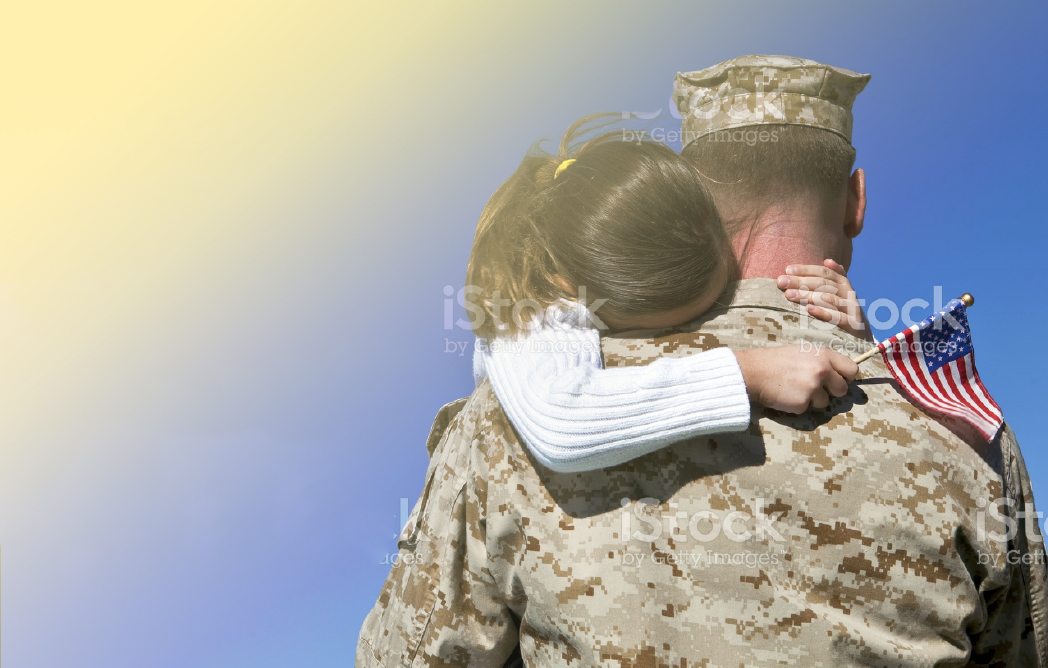
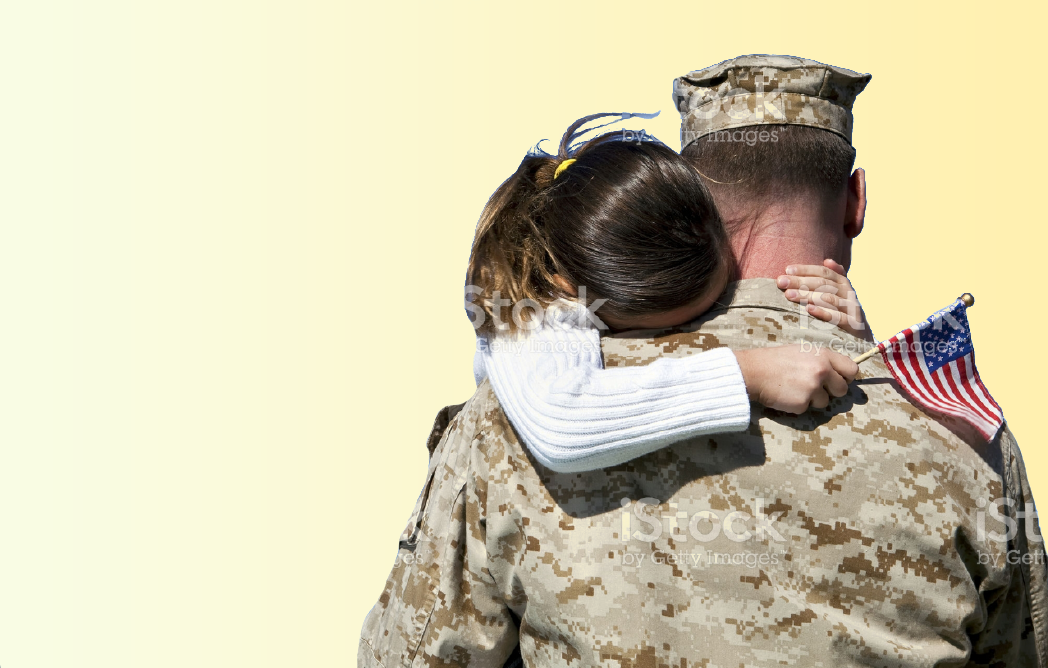
Updates to survey

diff --git a/CHAIvetsurvey/index.html b/CHAIvetsurvey/index.html
@@ -80,12 +80,12 @@
         <div class="container">
             <div class="row">
                 <div class="col-sm-6 text-center hidden-xs">
-                    <i class="fa fa-users text-primary" aria-hidden="true" style="font-size: 150px; margin-top: 50px;"></i>
+                    <i class="fa fa-users" aria-hidden="true" style="font-size: 150px; margin-top: 50px;"></i>
                     <!--<img class="img-responsive" src="img/vetsurvey_about.png" alt="">-->
                 </div>
 
                 <div class="col-sm-6">
-                    <h2 class="section-heading text-primary"> About</h2>
+                    <h2 class="section-heading"> About</h2>
                     <p class="lead">Lorem ipsum dolor sit amet, consectetur adipiscing elit. Sed sed mattis magna, ac pulvinar turpis. Quisque cursus rutrum justo, convallis interdum mi volutpat sodales. Maecenas nec nisi risus. In rutrum posuere odio, vitae luctus libero dictum sed. Donec suscipit, mauris ac congue ultricies, magna augue suscipit felis, vel varius purus nibh non lectus. Fusce pretium suscipit sodales. Suspendisse potenti. Nullam luctus purus at massa posuere, quis gravida magna hendrerit. Pellentesque porttitor feugiat nisi non consequat.</p>
                 </div>
                 
@@ -109,7 +109,7 @@
 
                 </div>-->
                 <div class="col-sm-6">
-                    <h2 class="section-heading text-primary">FAQ</h2>
+                    <h2 class="section-heading">FAQ</h2>
                     <p class="lead"> Maecenas nec nisi risus. In rutrum posuere odio, vitae luctus libero dictum sed. Donec suscipit, mauris ac congue ultricies, magna augue suscipit felis, vel varius purus nibh non lectus. Fusce pretium suscipit sodales. Suspendisse potenti. Nullam luctus purus at massa posuere, quis gravida magna hendrerit. Pellentesque porttitor feugiat nisi non consequat</p>
                     <a class="btn btn-primary" href="#" role="button">FAQ</a> &nbsp;
                     <a class="btn btn-primary" href="#" role="button">Consent Forms</a>
@@ -118,8 +118,8 @@
 
                 <div class="col-sm-6 text-center hidden-xs">
 
-                    <i class="fa fa-question text-primary" aria-hidden="true" style="font-size: 60px; margin-top: 50px;"></i>
-                    <i class="fa fa-question text-primary" aria-hidden="true" style="font-size: 180px; margin-top: 50px;"></i>
+                    <i class="fa fa-question" aria-hidden="true" style="font-size: 60px; margin-top: 50px;"></i>
+                    <i class="fa fa-question" aria-hidden="true" style="font-size: 180px; margin-top: 50px;"></i>
                 </div>
                 
             </div>
@@ -136,11 +136,11 @@
 
             <div class="row">
                 <div class="col-sm-6 text-center hidden-xs">
-                    <i class="fa fa-envelope text-primary" aria-hidden="true" style="font-size: 150px; margin-top: 50px;"></i>
+                    <i class="fa fa-envelope" aria-hidden="true" style="font-size: 150px; margin-top: 50px;"></i>
                     <!--<img class="img-responsive" src="img/vetsurvey_contact.png" alt="">-->
                 </div>
                 <div class="col-sm-6">
-                    <h2 class="section-heading text-primary">Contact</h2>
+                    <h2 class="section-heading">Contact</h2>
                     <p class="lead">Pellentesque viverra enim ac ex vehicula tincidunt. Curabitur a eros nec mauris maximus blandit. Aenean quis arcu felis. Donec at mattis lectus. Maecenas sit amet dui a leo cursus suscipit. Aenean arcu enim, dapibus sed ante feugiat, posuere dignissim odio. Quisque hendrerit diam eu libero rhoncus efficitur.</p>
 
                     <a class="btn btn-primary" href="mailto:person@abtassoc.com" role="button">Email</a>

diff --git a/CHAIvetsurvey/css/landing-page.css b/CHAIvetsurvey/css/landing-page.css
@@ -27,6 +27,10 @@ h1.welcomehome {
     margin-bottom: 20px;
 }
 
+h2 {
+    color: #EF4610;
+}
+
 a.white-link {
     color: #404040; 
     font-weight: normal;
@@ -49,18 +53,19 @@ a.white-link:hover {
 }
 
 .intro-header {
-    
+    background-color: red;
     text-align: center;
     color: #f8f8f8;
     background: url(../img/hero.png) no-repeat top center;
-    background-size: cover;
+    background-size: auto;
+    background-position: top right;
     border-bottom: 1px solid #ccc;
 
 
 }
 
 .header-gradient {
-    background: rgb(24,231,255); /* For browsers that do not support gradients */
+    background: orange; /* For browsers that do not support gradients */
      background: -webkit-linear-gradient(-45deg,rgba(82,255,250,0),rgba(255,255,225,1)); /*Safari 5.1-6*/
      background: -o-linear-gradient(-45deg,rgba(82,255,250,0),rgba(255,255,225,1)); /*Opera 11.1-12*/
      background: -moz-linear-gradient(-45deg,rgba(82,255,250,0),rgba(255,255,225,1)); /*Fx 3.6-15*/
